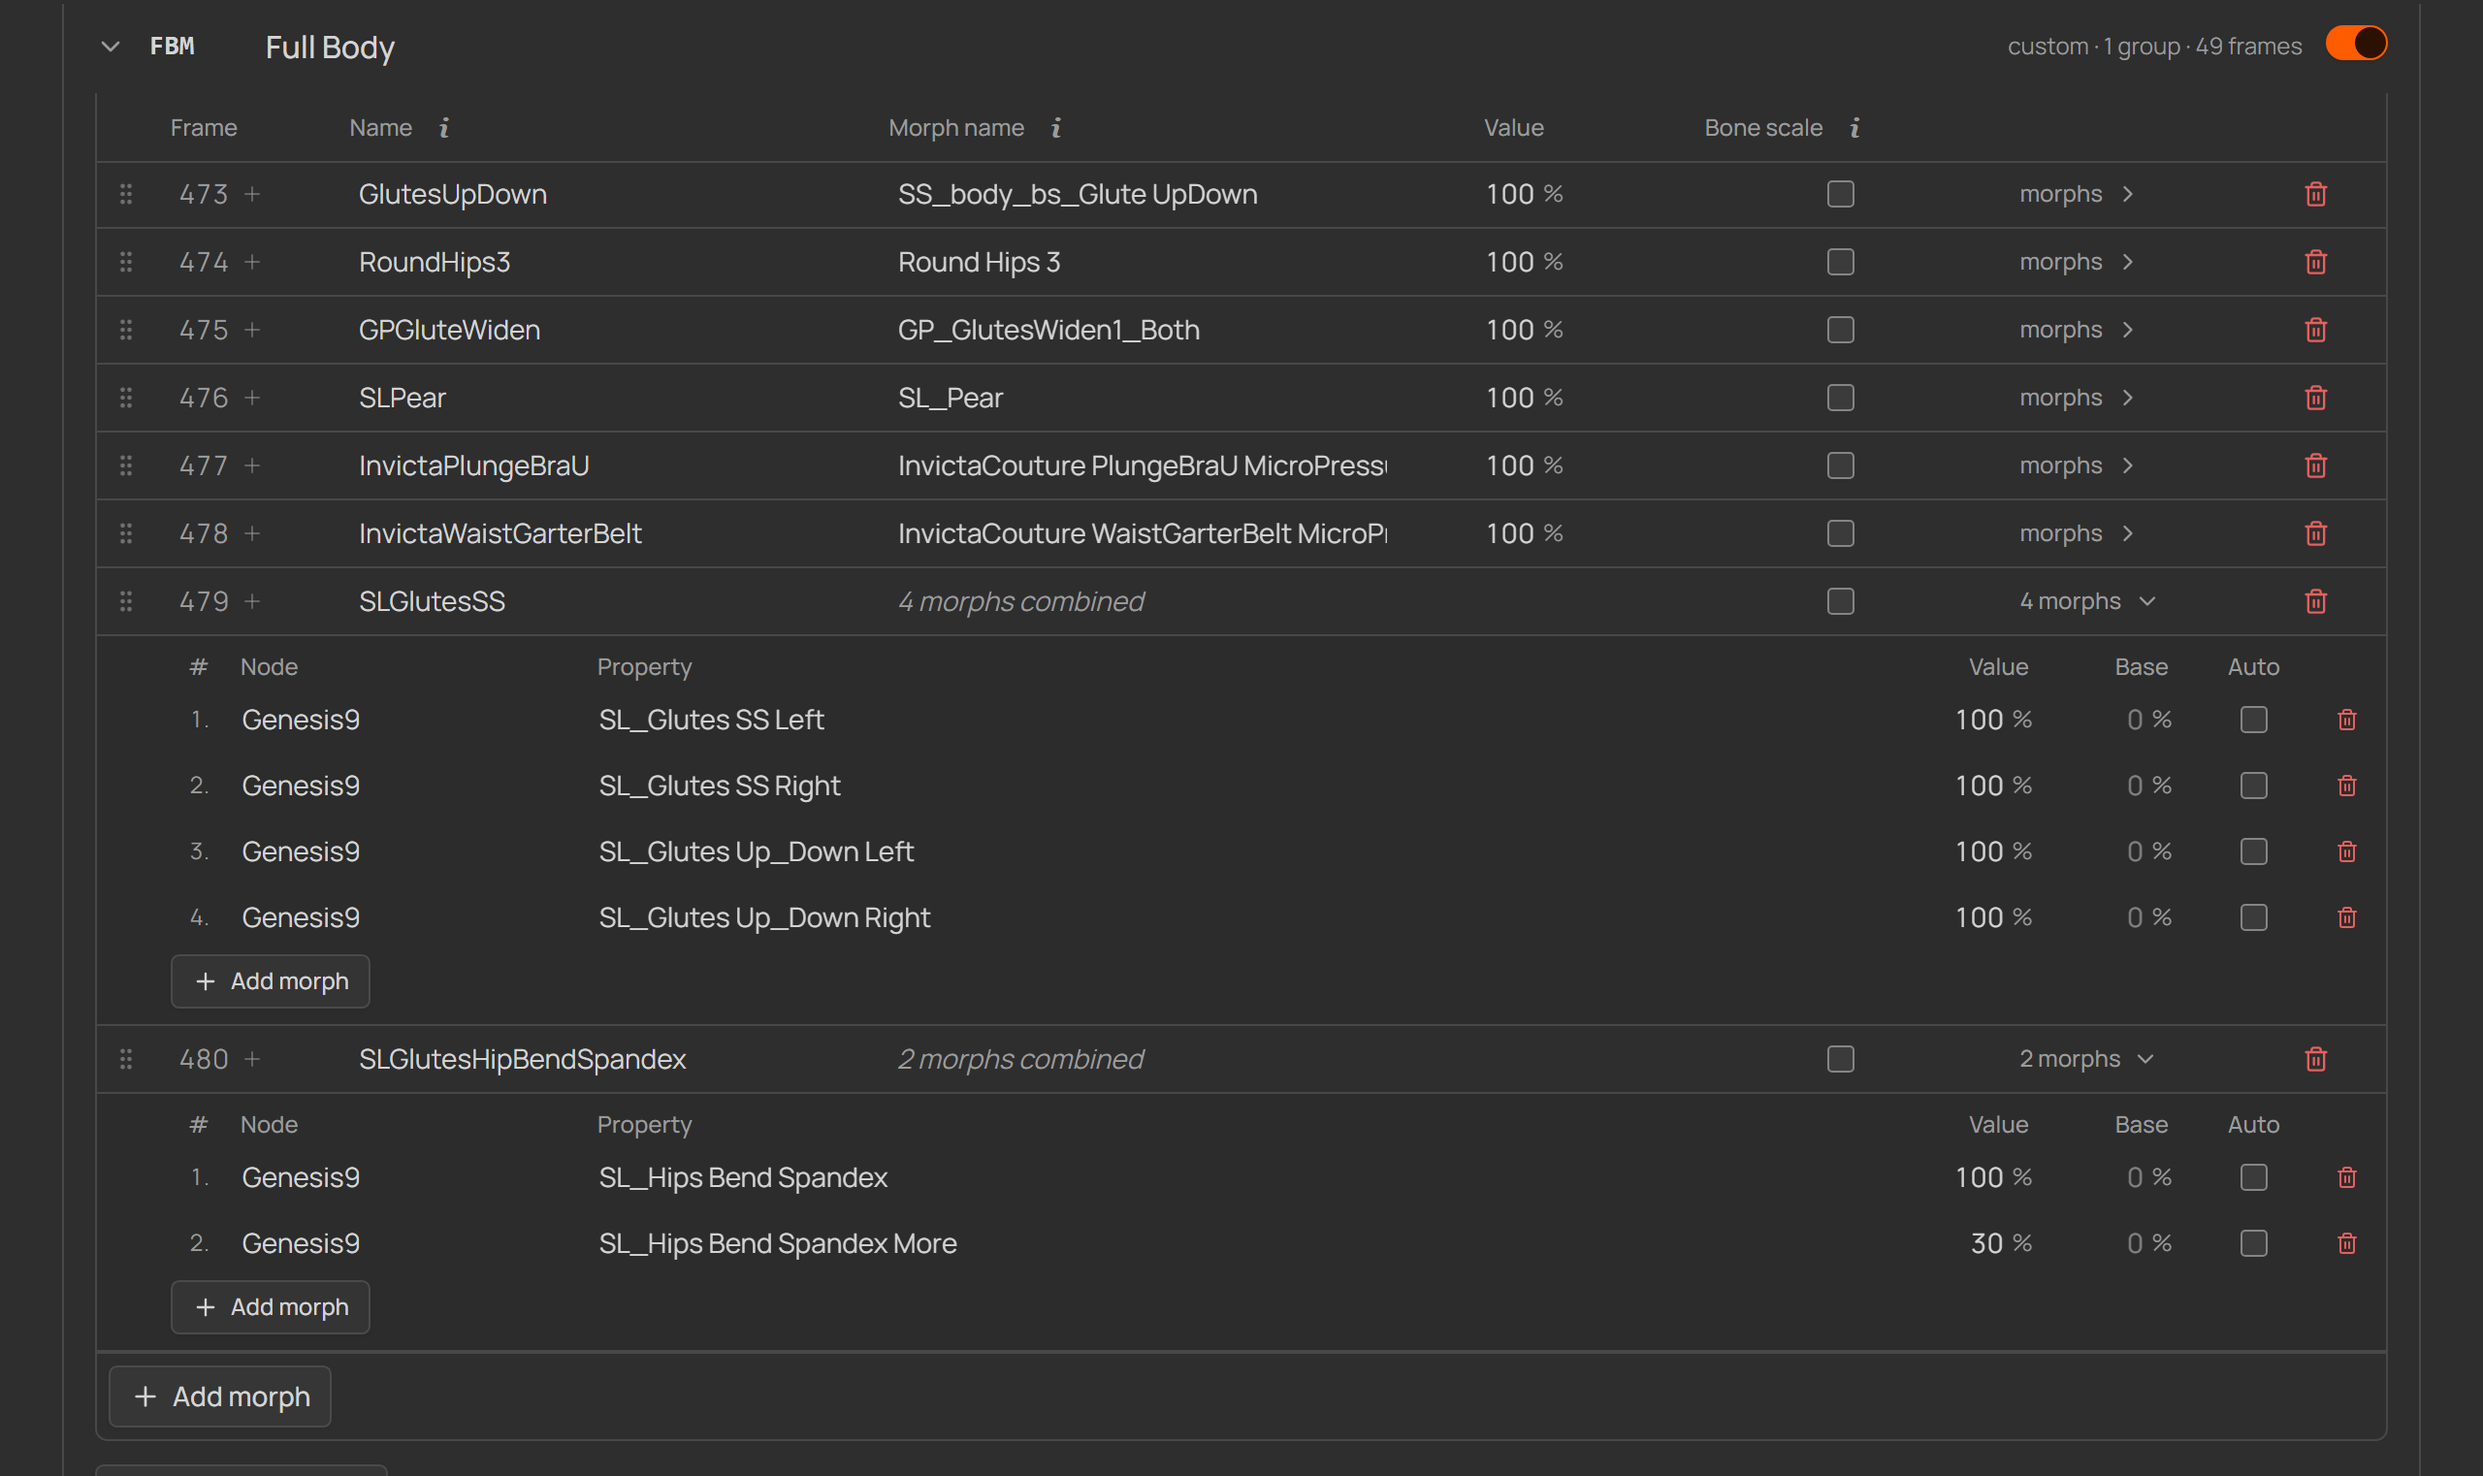
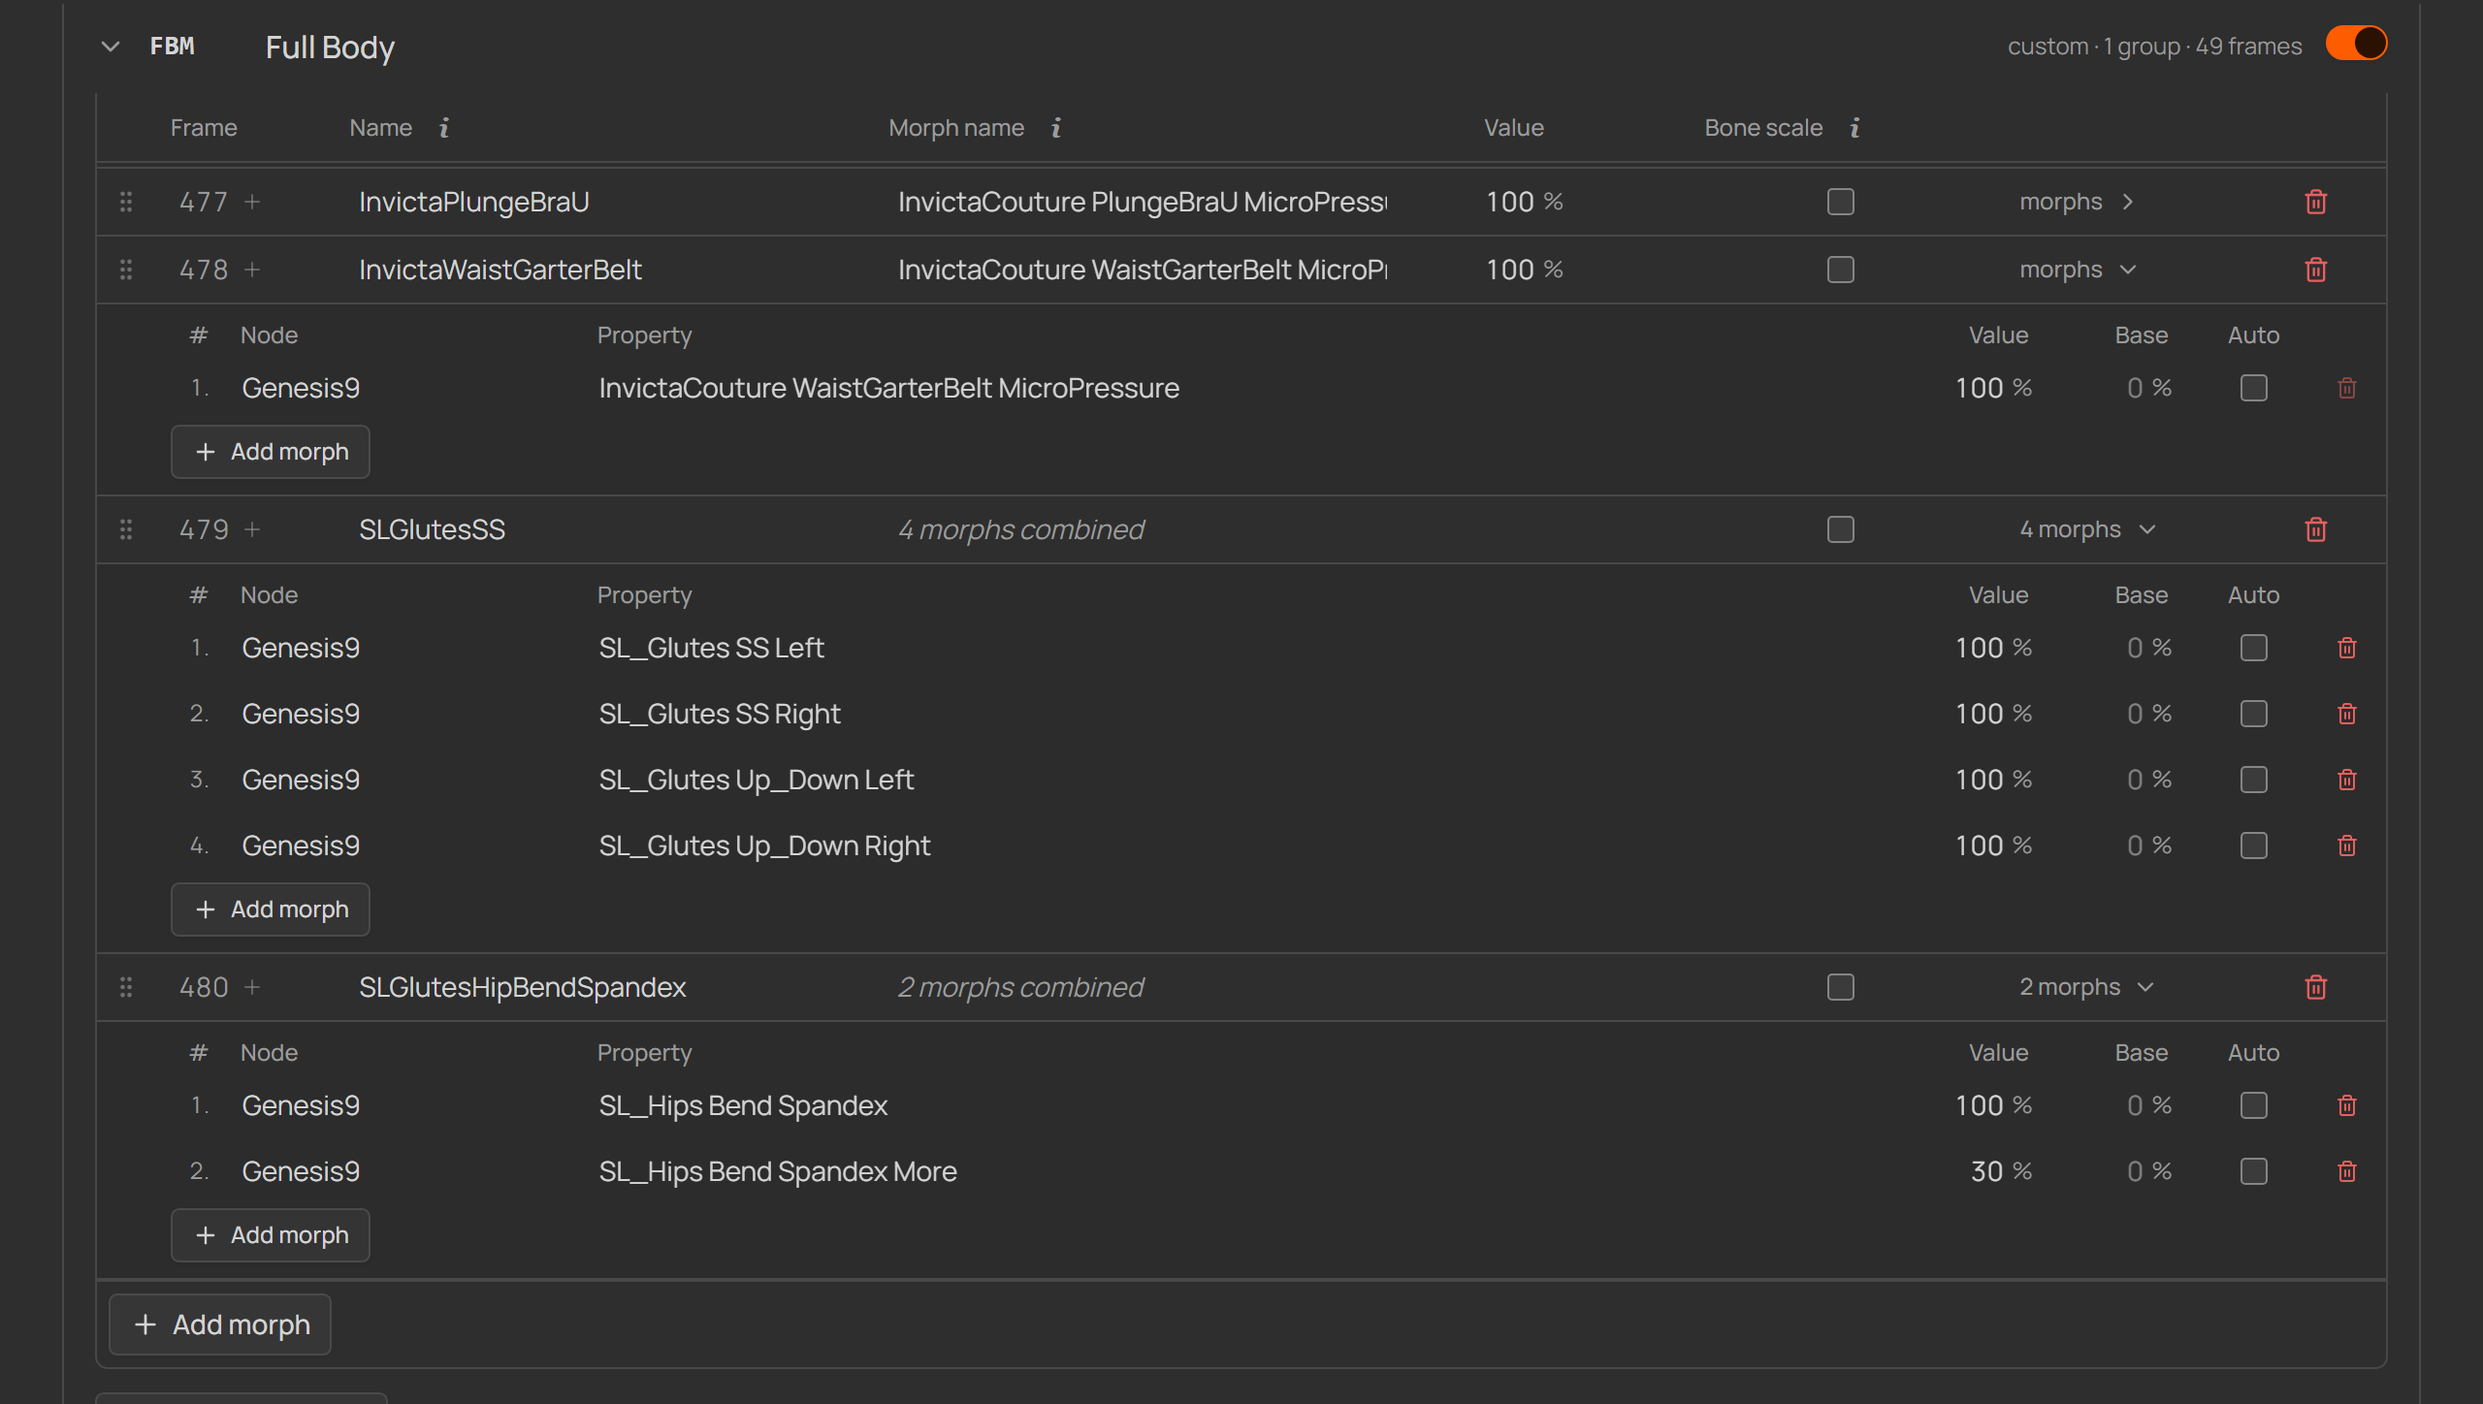
Update 04-first-character.md (#407)

diff --git a/apps/web/smoke/guide.screenshots.ts b/apps/web/smoke/guide.screenshots.ts
@@ -387,17 +387,24 @@ test('combine-morphs', async ({ page }) => {
   await page.getByRole('button', { name: /FBM/ }).click()
   // Two real multi-morph poses from the fixture: SLGlutesSS (4 morphs) and
   // SLGlutesHipBendSpandex (2) — expand both to show the combined-morph editor.
+  // Also expand the last single-morph row (InvictaWaistGarterBelt — the one right
+  // above the combined examples) so the shot shows all three cases back to back:
+  // an expanded single morph, then the 4- and 2-morph combined poses.
+  await page.getByText('morphs', { exact: true }).last().click()
   await page.getByText('4 morphs', { exact: true }).click()
   await page.getByText('2 morphs', { exact: true }).click()
   await page.mouse.move(0, 0)
   await settle(page)
-  await page.setViewportSize({ width: VW, height: 1200 })
-  // Scroll the first combined pose just below the pinned FBM section title +
-  // column headers, so both examples sit under them (the real scrolled view — the
-  // poses between are hidden behind the pinned headers, so nothing overlaps).
-  const firstRow = page.getByText('4 morphs combined').locator('xpath=ancestor::tr[1]')
+  await page.setViewportSize({ width: VW, height: 1000 })
+  // Scroll the expanded single-morph row just below the pinned FBM section title +
+  // column headers, so all three expanded examples sit under them (the real
+  // scrolled view — poses above are hidden behind the pinned headers).
+  const firstRow = page
+    .getByText('morphs', { exact: true })
+    .last()
+    .locator('xpath=ancestor::tr[1]')
   await firstRow.evaluate((el) => {
-    ;(el as HTMLElement).style.scrollMarginTop = '205px'
+    ;(el as HTMLElement).style.scrollMarginTop = '250px'
     el.scrollIntoView({ block: 'start' })
   })
   await settle(page)
@@ -414,7 +421,7 @@ test('combine-morphs', async ({ page }) => {
   const y = Math.max(0, top)
   await page.screenshot({
     path: join(OUT, 'combine-morphs.png'),
-    clip: { x: 0, y, width: VW, height: Math.min(bottom - y + 24, 1200 - y) },
+    clip: { x: 0, y, width: VW, height: Math.min(bottom - y + 24, 1000 - y) },
   })
 })
 

diff --git a/docs/guide/04-first-character.md b/docs/guide/04-first-character.md
@@ -154,30 +154,12 @@ needed for a working ROM:
 
 A ROM is a fixed sequence of eight sections. Each can be **enabled or disabled**,
 and runs in **Preset** mode (the DTH release's stock pose assets) or **Custom**
-mode (your own poses and morphs):
-
-| Section | What it covers |
-|---|---|
-| RET | Retargeting poses |
-| JCM | Joint corrective morphs |
-| FAC | FACS / face poses |
-| EXP | Expressions |
-| GEN | Genitalia (Golden Palace / Dicktator presets) |
-| PHY | Physics |
-| FBM | Full-body morphs — where your character's custom morphs go |
-| MISC | Everything else |
-
-&nbsp;
-
-> [!NOTE]
-> The studio computes every frame number from this structure — you never type a
-> frame, and the Daz and Houdini outputs can't drift apart.
+mode (your own poses and morphs)
 
 Above the sections, a colored **timeline bar** maps the whole ROM: one segment per
 block (preset and custom), widths proportional to their frame counts — hover a
 segment for its exact frame range. It re-renders as you edit, so you always see
 where every section lands before anything runs.
-
 
 <details>
 <summary><strong>Golden Palace &amp; Dicktator — the genitalia (GEN) section</strong></summary>
@@ -223,14 +205,32 @@ use your own asset!
 </td></tr></table>
 </details>
 
+&nbsp;
+
+> [!NOTE]
+> The studio computes every frame number from this structure — you never type a
+> frame, and the Daz and Houdini outputs can't drift apart.
+
+## Custom morphs
 
 For this example we add some **Full Body Morphs (FBM)**, switch it to Custom, and list the morphs your
-character actually uses (each morph by its Daz property name, with the value to
-key) — or import them with **Import from CSV**: run the bundled **`Scan_Frames`**
-script in Daz Studio (`Scripts › DTH-Character-Studio`, figure root selected) and
-its scan of the open scene — every keyed morph frame — shows up in the import
-picker automatically, one CSV per scene. A **Browse** button still takes any CSV
+character should use
+
+<details>
+<summary><strong>Import from existing Daz scene</strong></summary>
+<table><tr><td>
+
+Import with **Import from CSV**: run the bundled **`Scan_Frames`**
+script in Daz Studio (`Scripts › DTH-Character-Studio`) and
+its scan of the open scene — every keyed morph frame — and it writes a .csv file
+
+The csv shows up in the import
+picker automatically, one CSV per scene name. A **Browse** button still takes any CSV
 you curated yourself.
+
+
+</td></tr></table>
+</details>
 
 Each pose row has two name fields with very different jobs:
 
@@ -247,9 +247,9 @@ expand its **morphs** toggle (it reads *"2 morphs"*, *"3 morphs"*… once you ad
 more).
 
 <p align="center">
-  <img width="900" alt="A pose row expanded to drive one output from several morphs" src="screenshots/combine-morphs.png" />
+  <img width="900" alt="Expanded pose rows: a single-morph row, and rows combining several morphs into one output" src="screenshots/combine-morphs.png" />
   <br>
-  <sub><em>A pose row expanded to drive one output from several morphs.</em></sub>
+  <sub><em>Expanded pose rows — a plain single-morph row on top, and two rows combining several morphs into one output below.</em></sub>
 </p>
 
 Every entry in that expanded list carries its own:

diff --git a/.changeset/combine-morphs-screenshot.md b/.changeset/combine-morphs-screenshot.md
@@ -1,0 +1,2 @@
+---
+---
